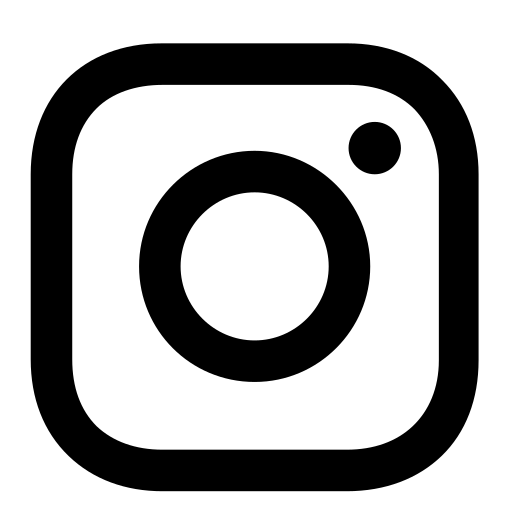
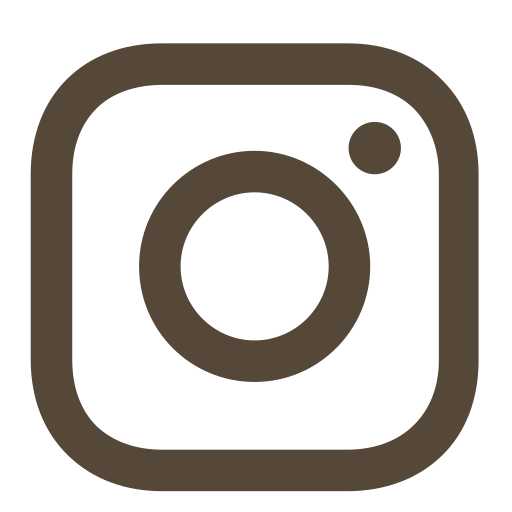
updated CSS on student show

diff --git a/app/assets/stylesheets/profile.css b/app/assets/stylesheets/profile.css
@@ -1,33 +1,7 @@
-.profile-header {
-  background-color: rgb(247, 233, 206);
-  /* height: ; */
-  display: flex;
-  justify-content: center;
-  align-items: center;
-  font-family: roboto, sans-serif;
-  padding-top: 2rem;
-  padding-bottom: 2rem;
-  box-shadow: 0 4px 6px 0 rgba(0, 0, 0, 0.2);
-
-}
-
-.profile-header-inner {
-  display: flex;
-  flex-direction: column; /* Stack children vertically */
-  align-items: center;   /* Center children horizontally */
-}
-
-.profile-picture-and-buttons{
-  display:flex;
-  height: 8rem;
-  flex-direction: row;
-  flex-wrap: nowrap;
-  align-items: center;
-}
 
 .profile-picture {
-  width: 8rem;
-  height: 8rem;
+  width: 10rem;
+  height: 10rem;
   border-radius: 50%;
   border: 5px solid #FAFAFA;
   box-shadow: 0 0 0 5px #e2e2e2;
@@ -48,9 +22,10 @@
 }
 
 .profile-name{
-  font-size:1.3rem;
-  margin: 1.5rem 0rem;
-  margin-bottom: 0rem;
+  color: var(--primary-text-color);
+  font-family: 'Roboto', sans-serif; 
+  font-size:1.75rem;
+  margin: 0rem;
 }
 
 .major-and-class{
@@ -58,13 +33,7 @@
   margin-bottom: 1rem;
 }
 
-.socails-bar{
-  display: flex;
-  justify-content: center;
-  align-items: center;
-}
 .social-link{
-
   margin: 0rem 1rem;
   max-width: 2rem;
   max-height: 2rem;
@@ -88,44 +57,51 @@
 }
 
 .profile-body-text{
-  padding: 0.5rem;
+  color: var(--primary-text-color);
+  font-family: 'Roboto', sans-serif;
+  font-size: 1.2rem;
 }
 
-.dropbtn {
-  background-color: var(--primary-bg-color);
-  padding: 16px;
-  font-size: 16px;
-  border: none;
-  text-wrap: nowrap;
+.relationship-controls-container{
+  display: flex;
+  justify-content: center;
+  align-items: center;
+  flex-direction: column;
+  margin-bottom: 1rem;
 }
-
-.dropdown {
-  position: relative;
-  display: inline-block;
-}
-
-.dropdown-content {
-  display: none;
-  position: absolute;
-  background-color: #f1f1f1;
-  min-width: 160px;
-  box-shadow: 0px 8px 16px 0px rgba(0,0,0,0.2);
-  z-index: 1;
-}
-
-.dropdown-content a {
-  color: black;
-  padding: 12px 16px;
-  text-decoration: none;
-  display: block;
-}
-
-.dropdown-content a:hover {background-color: #ddd;}
-
-.dropdown:hover .dropdown-content {display: block;}
-
-.dropdown:hover .dropbtn {background-color: var(--primary-bg-color);}
 
 .relationship-controls-container form{
+  max-width: 300px;
+  width: 100%;
   margin-top: 1rem;
+}
+
+.profile-content-outer{
+  display: flex;
+  width: 100%;
+  justify-content: center;
+  align-items: center;
+  margin-top: 2rem;
+}
+.profile-content{
+  max-width: 550px;
+  width:100%;
+  display: flex;
+  flex-direction: column;
+  align-items: left;
+  justify-content: left;  
+  margin-top: 1rem;
+}
+
+.linear-divider {
+  height: 20px; 
+  width: 100vw;
+  position: absolute;
+  left: 50%;
+  transform: translateX(-50%);
+  box-shadow: 0 5px 6px 0 rgba(0, 0, 0, 0.2);
+}
+
+.profile-section {
+  padding-top: 2rem;
 }

diff --git a/app/assets/stylesheets/application.css b/app/assets/stylesheets/application.css
@@ -23,8 +23,8 @@
   --primary-bg-color: #F7E9CE;
 }
 
-body {
-  background-color: #F7E9CE;
+body, html {
+  background-color: #F7E9CE!important;
   margin:0px;
   font-family: 'Roboto', sans-serif;
 
@@ -324,3 +324,9 @@ body {
   }
 }
 
+
+.icon {
+  background: --var(--primary-text-color); /* Or any color you want */
+  -webkit-mask: url('instagram_icon.png') no-repeat center / contain;
+          mask: url('instagram_icon.png') no-repeat center / contain;
+}
